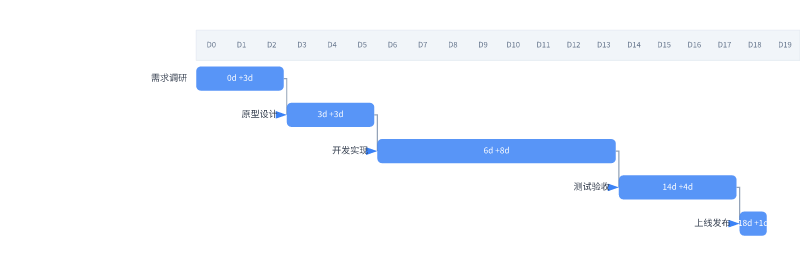
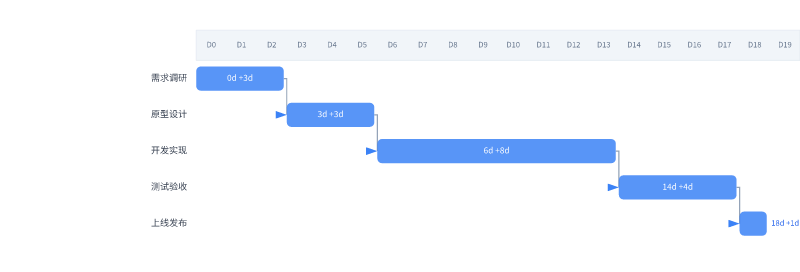
fix(render): gantt label column alignment + narrow-bar time text
- task names pinned to the left label column (were glued to each bar,
  floating at different x per start offset)
- bars narrower than 64px render their time text outside (right) instead
  of clipping inside (launch 36px bar was truncated)
Verified by doubao: labels aligned, one-task-per-row, 18d+1d readable.

diff --git a/packages/render/src/index.ts b/packages/render/src/index.ts
@@ -682,17 +682,23 @@ function renderGantt(doc: LgdlDocument, layout: LayoutResult): string {
   }
 
   // task bars
+  const labelColX = 40 + 220 - 12; // task names pinned to the left label column
   for (const node of layout.nodes) {
     const lgdlNode = doc.nodes.find((n) => n.id === node.id);
     const start = typeof lgdlNode?.attrs?.start === 'number' ? lgdlNode.attrs.start : 0;
     const dur = typeof lgdlNode?.attrs?.duration === 'number' ? lgdlNode.attrs.duration : 1;
     const label = lgdlNode?.label ?? node.id;
     const cy = node.y + node.height / 2;
-    // left label
-    parts.push(text(node.x - 12, cy, label, 12, '#374151', 'end'));
-    // bar
+    // left label: fixed column (aligned across rows), not glued to the bar
+    parts.push(text(labelColX, cy, label, 12, '#374151', 'end'));
+    // bar; narrow bars get their time text outside (right) instead of clipped
+    const timeText = `${start}d +${dur}d`;
+    const inside = node.width >= 64;
+    const barText = inside
+      ? text(node.x + node.width / 2, cy, timeText, 11, '#ffffff')
+      : text(node.x + node.width + 6, cy, timeText, 10, '#2563eb', 'start');
     parts.push(
-      `<g class="lgdl-gantt-bar"><rect x="${node.x}" y="${node.y}" width="${node.width}" height="${node.height}" rx="6" fill="#3b82f6" opacity="0.85"/>${text(node.x + node.width / 2, cy, `${start}d +${dur}d`, 11, '#ffffff')}</g>`,
+      `<g class="lgdl-gantt-bar"><rect x="${node.x}" y="${node.y}" width="${node.width}" height="${node.height}" rx="6" fill="#3b82f6" opacity="0.85"/>${barText}</g>`,
     );
   }
 
